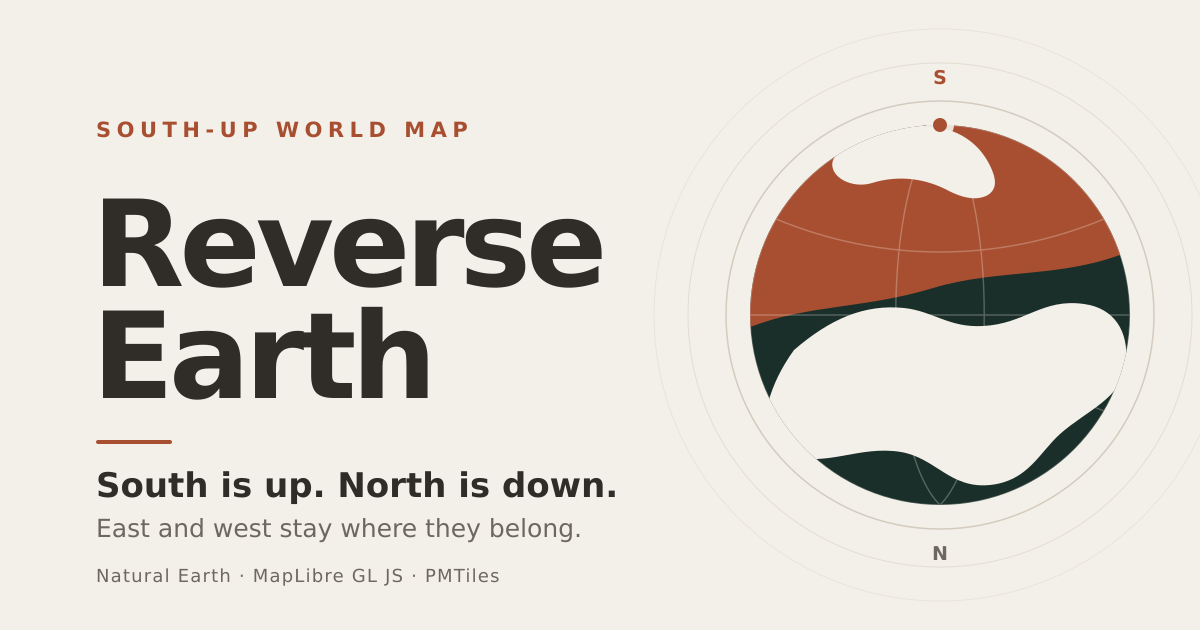
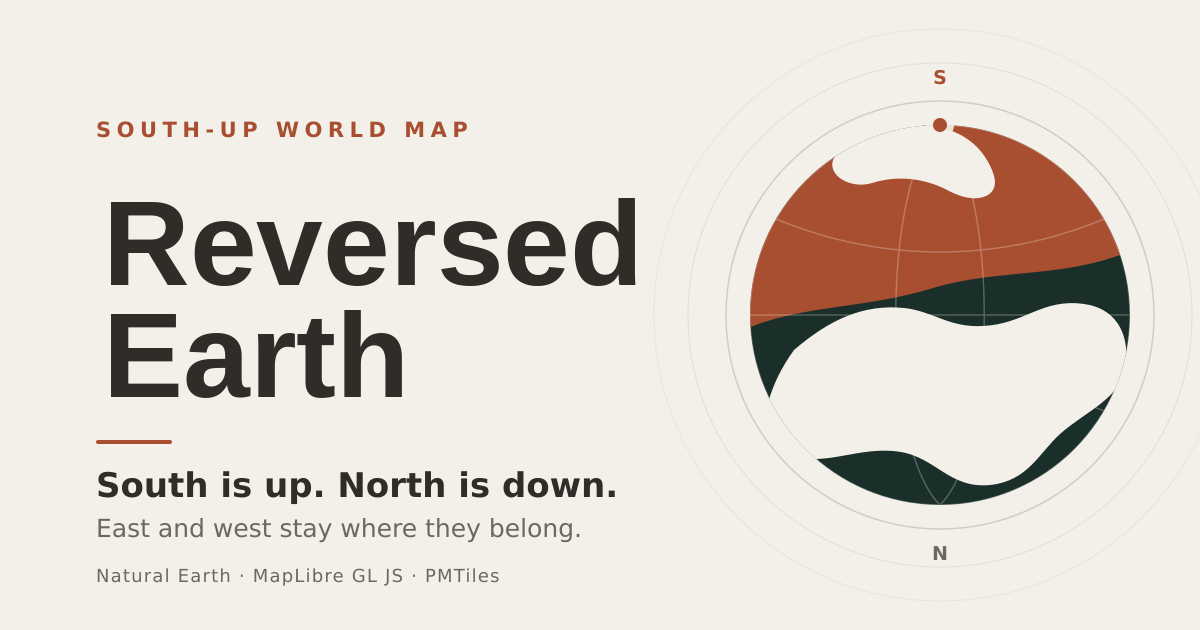
Rename the app to Reversed Earth

Changed region(s): [[0.0617, 0.3016, 0.555, 0.4825], [0.0617, 0.4825, 0.37, 0.6333]]

diff --git a/index.html b/index.html
@@ -16,7 +16,7 @@
     </script>
     <meta
       name="description"
-      content="Reverse Earth is a south-up world map: south is up, north is down, east and west stay where they belong."
+      content="Reversed Earth is a south-up world map: south is up, north is down, east and west stay where they belong."
     />
     <link rel="canonical" href="https://kassoulet.github.io/reverse-earth/" />
     <link rel="icon" href="/favicon.svg" type="image/svg+xml" />
@@ -36,8 +36,8 @@
       </style>
     </noscript>
     <meta property="og:type" content="website" />
-    <meta property="og:site_name" content="Reverse Earth" />
-    <meta property="og:title" content="Reverse Earth — south-up world map" />
+    <meta property="og:site_name" content="Reversed Earth" />
+    <meta property="og:title" content="Reversed Earth — south-up world map" />
     <meta
       property="og:description"
       content="A world map with Antarctica at the top and Canada at the bottom. South is up, north is down, and every label stays upright."
@@ -52,10 +52,10 @@
     <meta property="og:image:height" content="630" />
     <meta
       property="og:image:alt"
-      content="Reverse Earth over a south-up globe, with the words South is up. North is down."
+      content="Reversed Earth over a south-up globe, with the words South is up. North is down."
     />
     <meta name="twitter:card" content="summary_large_image" />
-    <meta name="twitter:title" content="Reverse Earth — south-up world map" />
+    <meta name="twitter:title" content="Reversed Earth — south-up world map" />
     <meta
       name="twitter:description"
       content="A world map with Antarctica at the top and Canada at the bottom. South is up, north is down, and every label stays upright."
@@ -66,15 +66,15 @@
     />
     <meta
       name="twitter:image:alt"
-      content="Reverse Earth over a south-up globe, with the words South is up. North is down."
+      content="Reversed Earth over a south-up globe, with the words South is up. North is down."
     />
-    <title>Reverse Earth — south-up world map</title>
+    <title>Reversed Earth — south-up world map</title>
   </head>
   <body>
     <main id="app">
       <div id="splash" class="splash" aria-hidden="true">
         <div class="splash__content">
-          <p class="splash__title">Reverse Earth</p>
+          <p class="splash__title">Reversed Earth</p>
           <div class="splash__progress" aria-hidden="true">
             <span class="splash__progress-bar"></span>
           </div>
@@ -160,7 +160,7 @@
         <button id="info-close" class="info-panel__close" type="button">
           Close
         </button>
-        <p class="info-panel__eyebrow">Reverse Earth</p>
+        <p class="info-panel__eyebrow">Reversed Earth</p>
         <h2 id="info-title">About this map</h2>
         <p>
           South is up. North is down. East and west are unchanged, and every

diff --git a/src/main.ts b/src/main.ts
@@ -365,7 +365,7 @@ async function shareCurrentView(): Promise<void> {
   if (typeof navigator.share === "function") {
     try {
       await navigator.share({
-        title: "Reverse Earth",
+        title: "Reversed Earth",
         text,
         url,
       });

diff --git a/map-build/natural-earth/build_natural_earth.py b/map-build/natural-earth/build_natural_earth.py
@@ -11,6 +11,7 @@ Layer schema (shared with any future filtered OSM source):
     land       polygons
     glacier    polygons (ice caps and glaciers)
     water      polygons (lakes)
+    wetland    polygons (Natural Earth named wetlands)
     reef       lines (coral reefs)
     urban      polygons (Natural Earth urban areas at z5-z6)
     park       polygons (Natural Earth parks and protected areas at z5-z6)
@@ -240,6 +241,7 @@ PHYSIO_CLASS_BY_FEATURECLA = {
     "Valley": "valley",
 }
 REEF_MIN_ZOOM = 5
+WETLAND_MIN_ZOOM = 0
 PEAK_MIN_ZOOM = 5
 PEAK_RANK_BY_ZOOM = {5: 2, 6: 3}
 
@@ -247,6 +249,7 @@ LAYER_ORDER = (
     "land",
     "glacier",
     "water",
+    "wetland",
     "reef",
     "urban",
     "park",
@@ -493,6 +496,17 @@ def build_feature(prepared: PreparedSource, geometry: BaseGeometry, props: dict[
             properties={"class": "reef", "rank": rank},
             rank=rank,
             min_zoom=REEF_MIN_ZOOM,
+        )
+    if layer == "wetland":
+        return Feature(
+            geometry=geometry,
+            properties={
+                "name": display_name(props.get("NAME_EN")) or display_name(props.get("NAME")),
+                "class": "wetland",
+                "rank": number_value(props.get("SCALERANK"), 99),
+            },
+            rank=number_value(props.get("SCALERANK"), 99),
+            min_zoom=WETLAND_MIN_ZOOM,
         )
     if layer == "glacier":
         rank = number_value(props.get("scalerank"), 99)
@@ -821,6 +835,51 @@ def physical_region_labels(cache_dir: Path) -> PreparedSource:
     return prepared
 
 
+def wetland_areas(cache_dir: Path) -> PreparedSource:
+    """Keep Natural Earth's named wetland polygons as filled areas."""
+    prepared = PreparedSource(layer="wetland", scale="10m")
+    seen: set[Any] = set()
+    skipped = 0
+    for raw in load_geojson(cache_dir / "ne_10m_geography_regions_polys.geojson"):
+        props = raw.get("properties") or {}
+        if string_value(props.get("FEATURECLA")) != "Wetlands":
+            continue
+        ne_id = props.get("NE_ID")
+        if ne_id is not None:
+            if ne_id in seen:
+                continue
+            seen.add(ne_id)
+
+        geometry_data = raw.get("geometry")
+        if not isinstance(geometry_data, dict):
+            skipped += 1
+            continue
+        try:
+            source_geometry = shape(geometry_data)
+            projected = transform(source_geometry, display_project)
+            projected = normalise_geometry(projected)
+            if projected is None:
+                skipped += 1
+                continue
+            projected = simplify_for_display(projected, "wetland")
+        except Exception as error:  # noqa: BLE001 - report malformed source features
+            LOG.warning("Skipping invalid wetland feature: %s", error)
+            skipped += 1
+            continue
+
+        for part in explode_parts(projected):
+            prepared.features.append(build_feature(prepared, part, props))
+
+    prepared.skipped = skipped
+    prepared.tree = STRtree([feature.geometry for feature in prepared.features])
+    LOG.info(
+        "wetland 10m: %s features (%s skipped)",
+        len(prepared.features),
+        skipped,
+    )
+    return prepared
+
+
 def admin1_labels(cache_dir: Path) -> list[Feature]:
     """Pick a small, globally distributed set of Admin 1 label anchors.
 
@@ -935,6 +994,8 @@ def filtered_features(source: PreparedSource, zoom: int) -> list[Feature]:
         ]
     if source.layer == "reef":
         return source.features if zoom >= REEF_MIN_ZOOM else []
+    if source.layer == "wetland":
+        return source.features if zoom >= WETLAND_MIN_ZOOM else []
     if source.layer == "physio":
         limit = PHYSIO_RANK_BY_ZOOM.get(zoom, -1)
         return [
@@ -974,6 +1035,14 @@ def prepare_zoom_sources(
 
     for layer in ("land", "glacier", "water", "boundary", "waterway"):
         source = loaded[(layer, "10m" if layer == "glacier" else scale)]
+        features = filtered_features(source, zoom)
+        result[layer] = (features, STRtree([feature.geometry for feature in features]))
+
+    if zoom >= WETLAND_MIN_ZOOM:
+        features = filtered_features(loaded[("wetland", "10m")], zoom)
+        result["wetland"] = (features, STRtree([feature.geometry for feature in features]))
+    else:
+        result["wetland"] = ([], None)
         features = filtered_features(source, zoom)
         result[layer] = (features, STRtree([feature.geometry for feature in features]))
 
@@ -1024,7 +1093,7 @@ def prepare_zoom_sources(
 
 
 def extract_geometry(geometry: BaseGeometry, layer: str) -> BaseGeometry | None:
-    if layer in ("land", "glacier", "water", "urban", "park"):
+    if layer in ("land", "glacier", "water", "wetland", "urban", "park"):
         allowed = ("Polygon", "MultiPolygon")
     elif layer in ("boundary", "waterway", "road", "railway", "reef"):
         allowed = ("LineString", "MultiLineString")
@@ -1096,7 +1165,7 @@ def encode_tile(
                     clipped,
                     [scale, 0, 0, scale, -west * scale, -north * scale],
                 )
-                if layer in ("land", "glacier", "water", "urban", "park"):
+                if layer in ("land", "glacier", "water", "wetland", "urban", "park"):
                     tile_geometry = tile_geometry.simplify(2.0, preserve_topology=True)
                 elif layer in ("boundary", "waterway", "road", "railway", "reef"):
                     tile_geometry = tile_geometry.simplify(1.0, preserve_topology=False)
@@ -1200,6 +1269,7 @@ def build(
     loaded[("reef", "10m")] = load_layer(
         cache_dir, "reef", "ne_10m_reefs", "10m"
     )
+    loaded[("wetland", "10m")] = wetland_areas(cache_dir)
     loaded[("marine", "10m")] = marine_labels(cache_dir)
     loaded[("physio", "10m")] = physical_region_labels(cache_dir)
     loaded[("peak", "10m")] = load_layer(
@@ -1295,6 +1365,7 @@ def build_metadata(minzoom: int, maxzoom: int, counts: dict[str, int]) -> dict[s
     fields = {
         "land": {"class": "String"},
         "water": {"name": "String", "class": "String", "rank": "Number"},
+        "wetland": {"name": "String", "class": "String", "rank": "Number"},
         "glacier": {"class": "String", "rank": "Number"},
         "reef": {"class": "String", "rank": "Number"},
         "urban": {"class": "String", "rank": "Number"},
@@ -1340,7 +1411,7 @@ def build_metadata(minzoom: int, maxzoom: int, counts: dict[str, int]) -> dict[s
         },
     }
     return {
-        "name": "Reverse Earth — Natural Earth",
+        "name": "Reversed Earth — Natural Earth",
         "description": (
             "A south-up Natural Earth basemap. Display latitude is the negation "
             "of real geographic latitude; longitude is unchanged."

diff --git a/map-build/transformations/flip_world.py b/map-build/transformations/flip_world.py
@@ -222,7 +222,7 @@ def _build_metadata(
     display_bounds: tuple[float, float, float, float],
 ) -> dict[str, Any]:
     result: dict[str, Any] = {
-        "name": meta.get("name") or "Reverse Earth",
+        "name": meta.get("name") or "Reversed Earth",
         "description": (
             meta.get("description")
             or "A world basemap with latitude inverted: south is up, north is down."

diff --git a/README.md b/README.md
@@ -1,11 +1,11 @@
-# Reverse Earth
+# Reversed Earth
 
 [![CI](https://github.com/kassoulet/reverse-earth/actions/workflows/ci.yml/badge.svg)](https://github.com/kassoulet/reverse-earth/actions/workflows/ci.yml)
 [![Deploy to GitHub Pages](https://github.com/kassoulet/reverse-earth/actions/workflows/pages.yml/badge.svg)](https://github.com/kassoulet/reverse-earth/actions/workflows/pages.yml)
 [![Live smoke test](https://github.com/kassoulet/reverse-earth/actions/workflows/live-smoke.yml/badge.svg)](https://github.com/kassoulet/reverse-earth/actions/workflows/live-smoke.yml)
 [![Live site](https://img.shields.io/badge/live-kassoulet.github.io%2Freverse--earth-2f6b57)](https://kassoulet.github.io/reverse-earth/)
 
-Reverse Earth is a static, south-up world map built from Natural Earth data.
+Reversed Earth is a static, south-up world map built from Natural Earth data.
 
 - **South is up, north is down, east and west are unchanged.**
 - Antarctica is at the top, Australia and South America in the upper half,
@@ -41,7 +41,7 @@ built and published, the viewer shows a clear “Map data not built yet” panel
 
 ## Map experience
 
-- A “Reverse Earth” splash screen in Roboto Thin holds for at least two seconds
+- A “Reversed Earth” splash screen in Roboto Thin holds for at least two seconds
   and until the first map frame, then fades into the fullscreen, responsive
   MapLibre viewer. It uses the warm map background and an indeterminate
   progress bar. The opening is capped at four seconds.

diff --git a/map-build/README.md b/map-build/README.md
@@ -1,4 +1,4 @@
-# Reverse Earth map build pipeline
+# Reversed Earth map build pipeline
 
 This directory produces the single static artifact the viewer needs:
 `public/data/world.pmtiles`.
